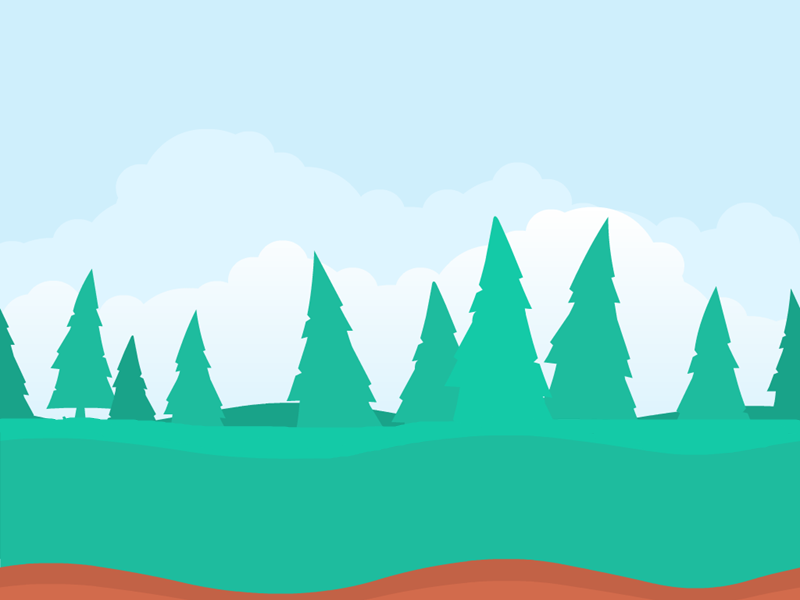
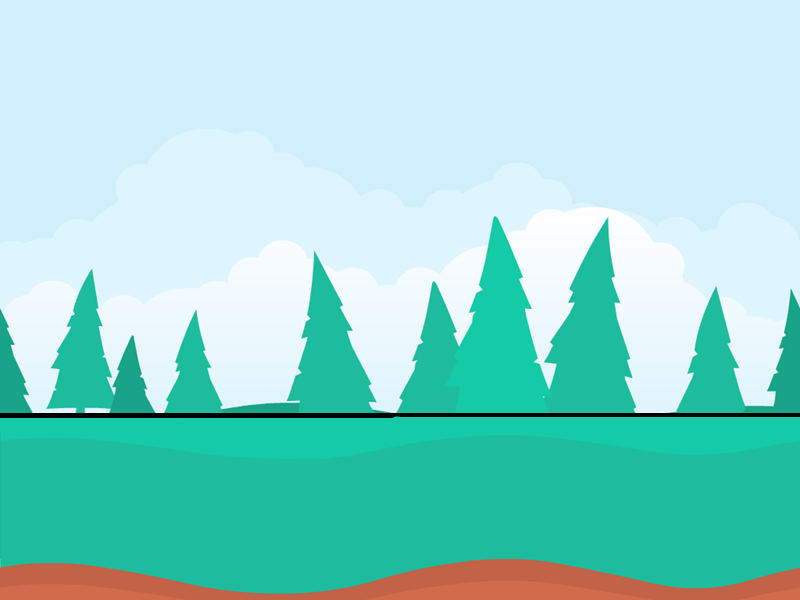
opetovne pridani pozadi

Changed region(s): [[0.0, 0.69, 1.0, 0.72]]

diff --git a/muj_projekt_skakacka.py b/muj_projekt_skakacka.py
@@ -14,13 +14,13 @@ vyska_skoku = -14
 gravitace = 1
 y_velocity = 0
 pozice_x_hrace = 100
-pozice_y_hrace = 110
+pozice_y_hrace = 75
 skace = False
 
 
 
 #PREKAZKY
-VYSKA_ZEM_PREKAZEK = 400
+VYSKA_ZEM_PREKAZEK = 363
 
 posun_sveta = 0
 
@@ -43,15 +43,15 @@ RED = (255, 0, 0)
 
 # Vytvoření okna
 screen = pygame.display.set_mode((rozliseni_sirka, rozliseni_vyska))
-
-# Načtení obrázku pozadí
-#    try:
- #       background_image = pygame.image.load('backgroundColorForest.png')
-  #      background_image = pygame.transform.scale(background_image, (rozliseni_sirka, rozliseni_vyska))
-   # except pygame.error as e:
-    #    print(f"Chyba při načítání obrázku: {e}")
-     #   pygame.quit()
-      #  sys.exit()
+ 
+ # Načtení obrázk pozadí
+try:
+    background_image = pygame.image.load('backgroundColorForest.png')
+    background_image = pygame.transform.scale(background_image, (rozliseni_sirka, rozliseni_vyska))
+except pygame.error as e:
+    print(f"Chyba při načítání obrázku: {e}")
+    pygame.quit()
+    sys.exit()
 
 # Načtení obrázku postavy
 try:
@@ -90,15 +90,15 @@ while True:
     pozice_y_hrace += y_velocity
     y_velocity += gravitace
     
-    if pozice_y_hrace >= 110:
-        pozice_y_hrace = 110
+    if pozice_y_hrace >= 75:
+        pozice_y_hrace = 75
         y_velocity = 0
         skace = False 
     
     
-    
+    screen.blit(background_image, (0, 0))
         
-    screen.fill((255, 255, 255))
+    
 
     # Vykreslení
     for x, y, w, h in prekazky:
